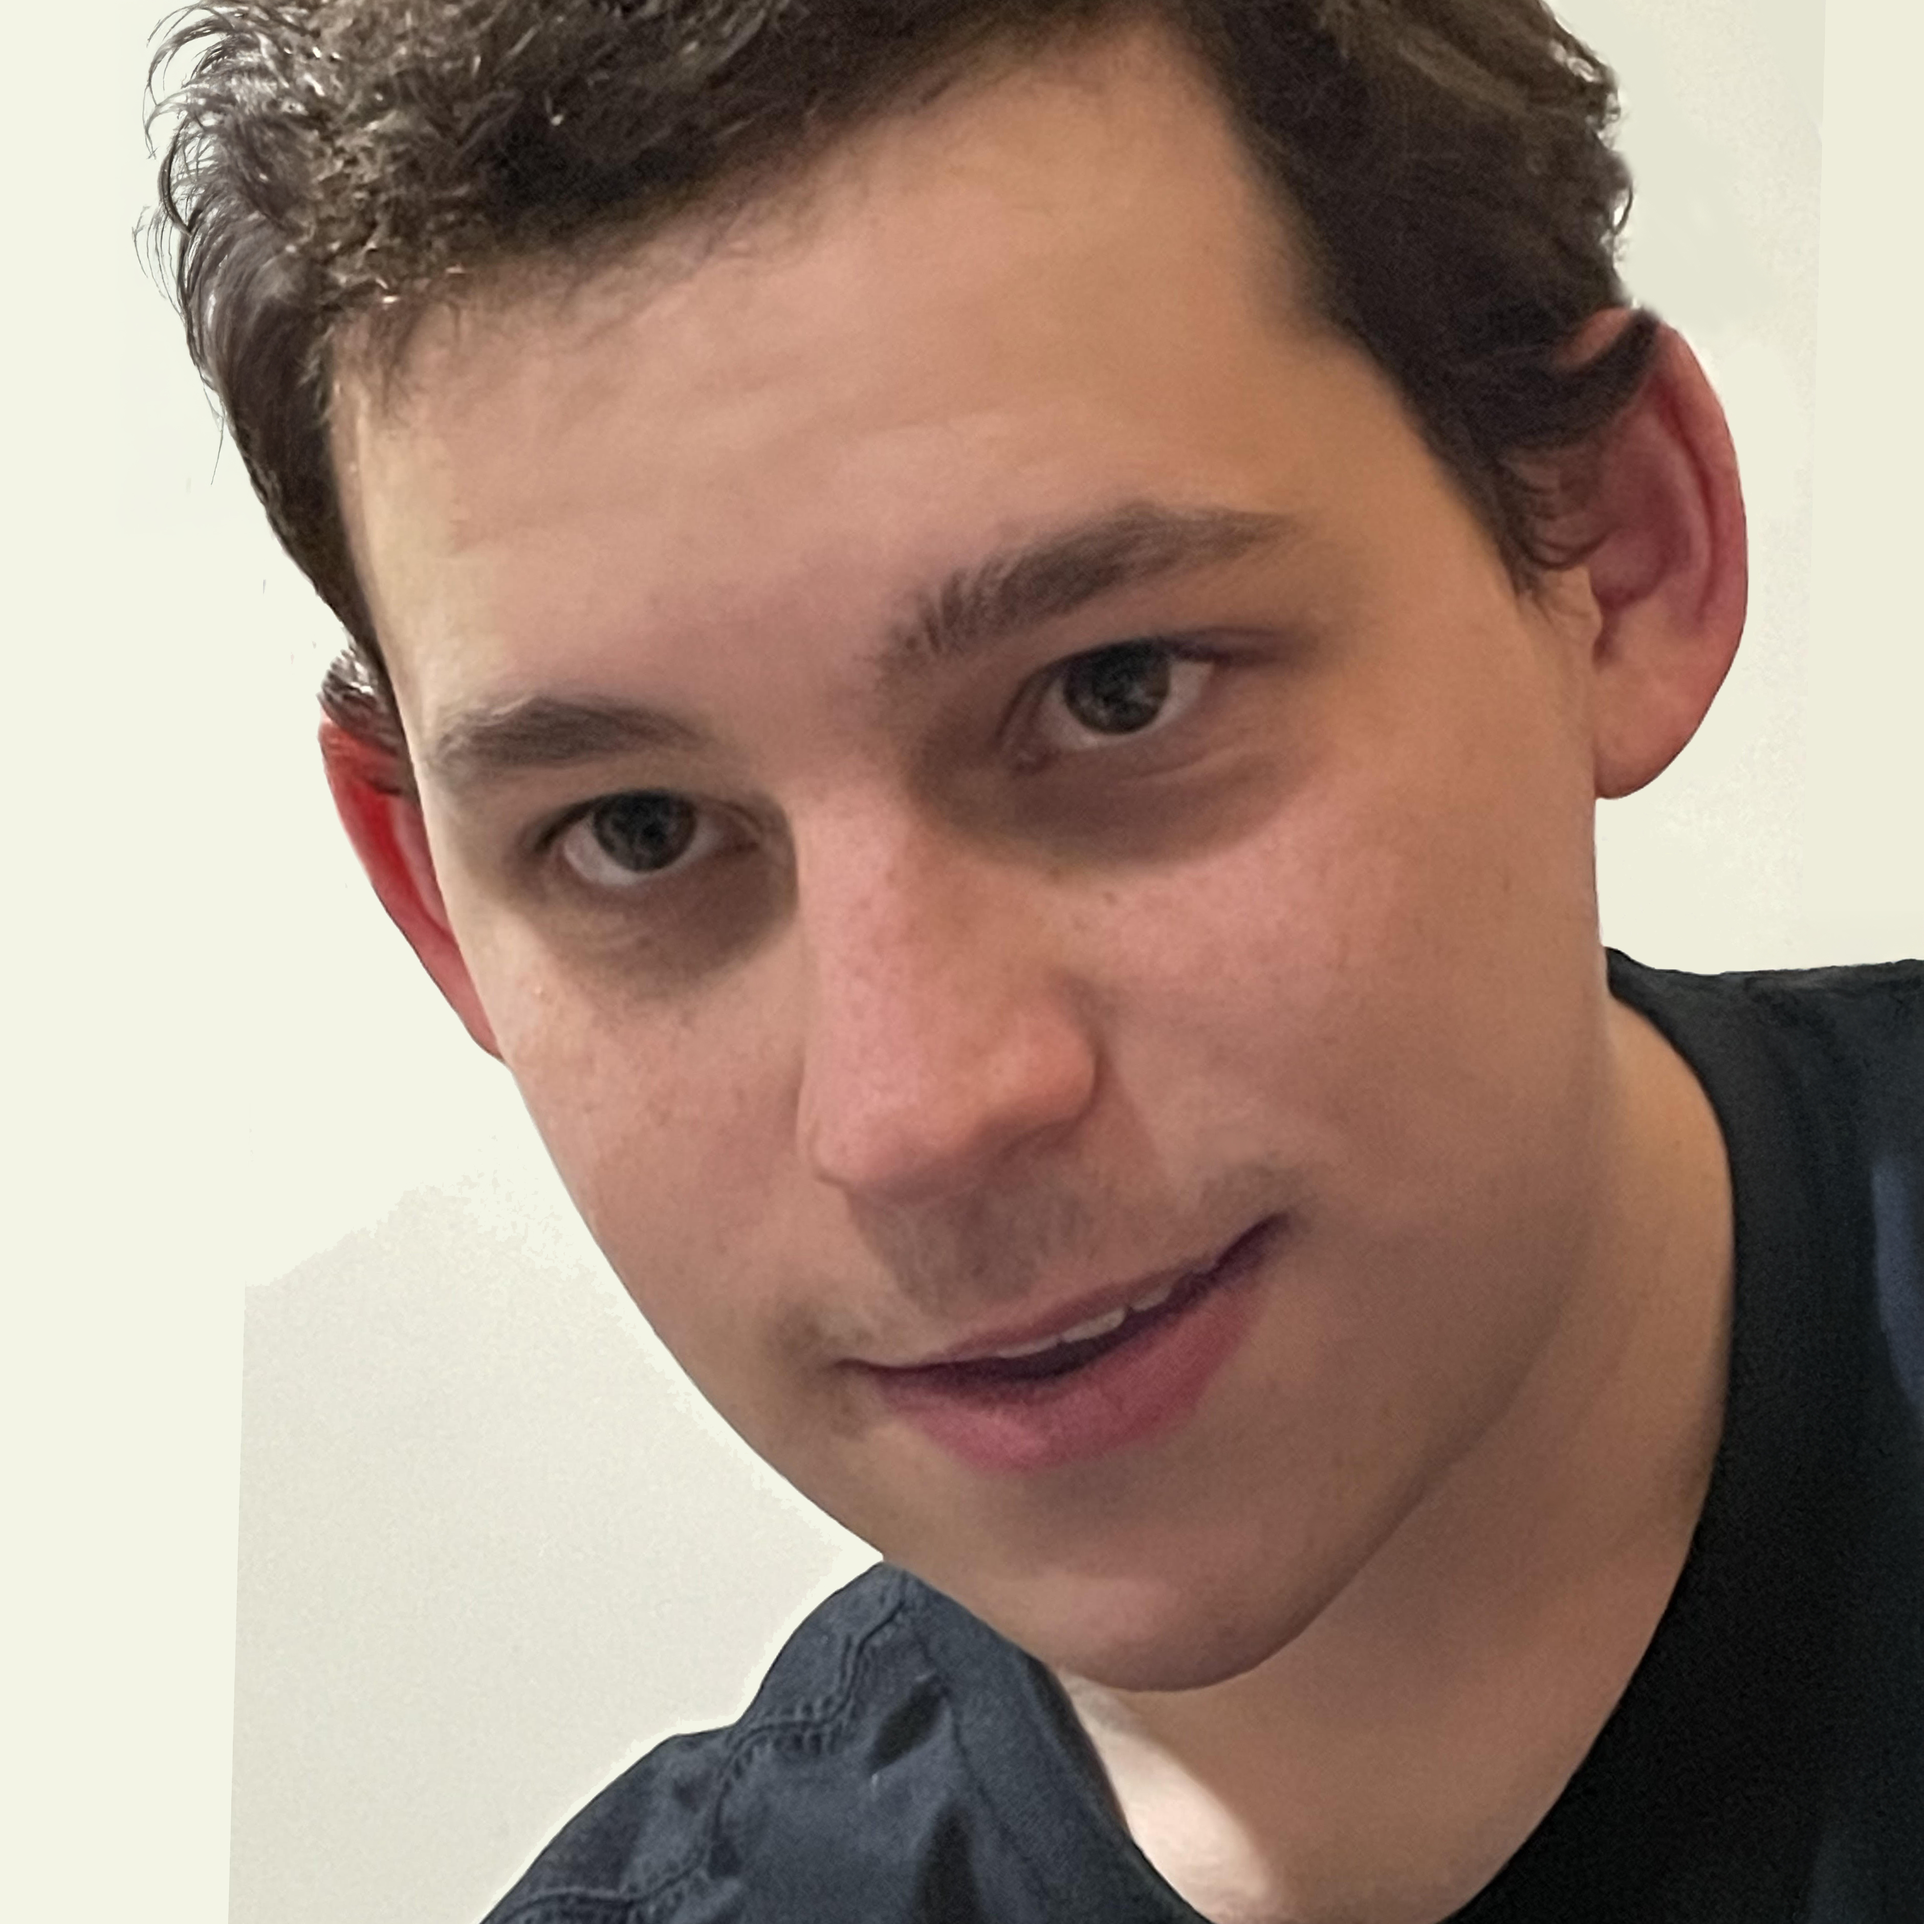
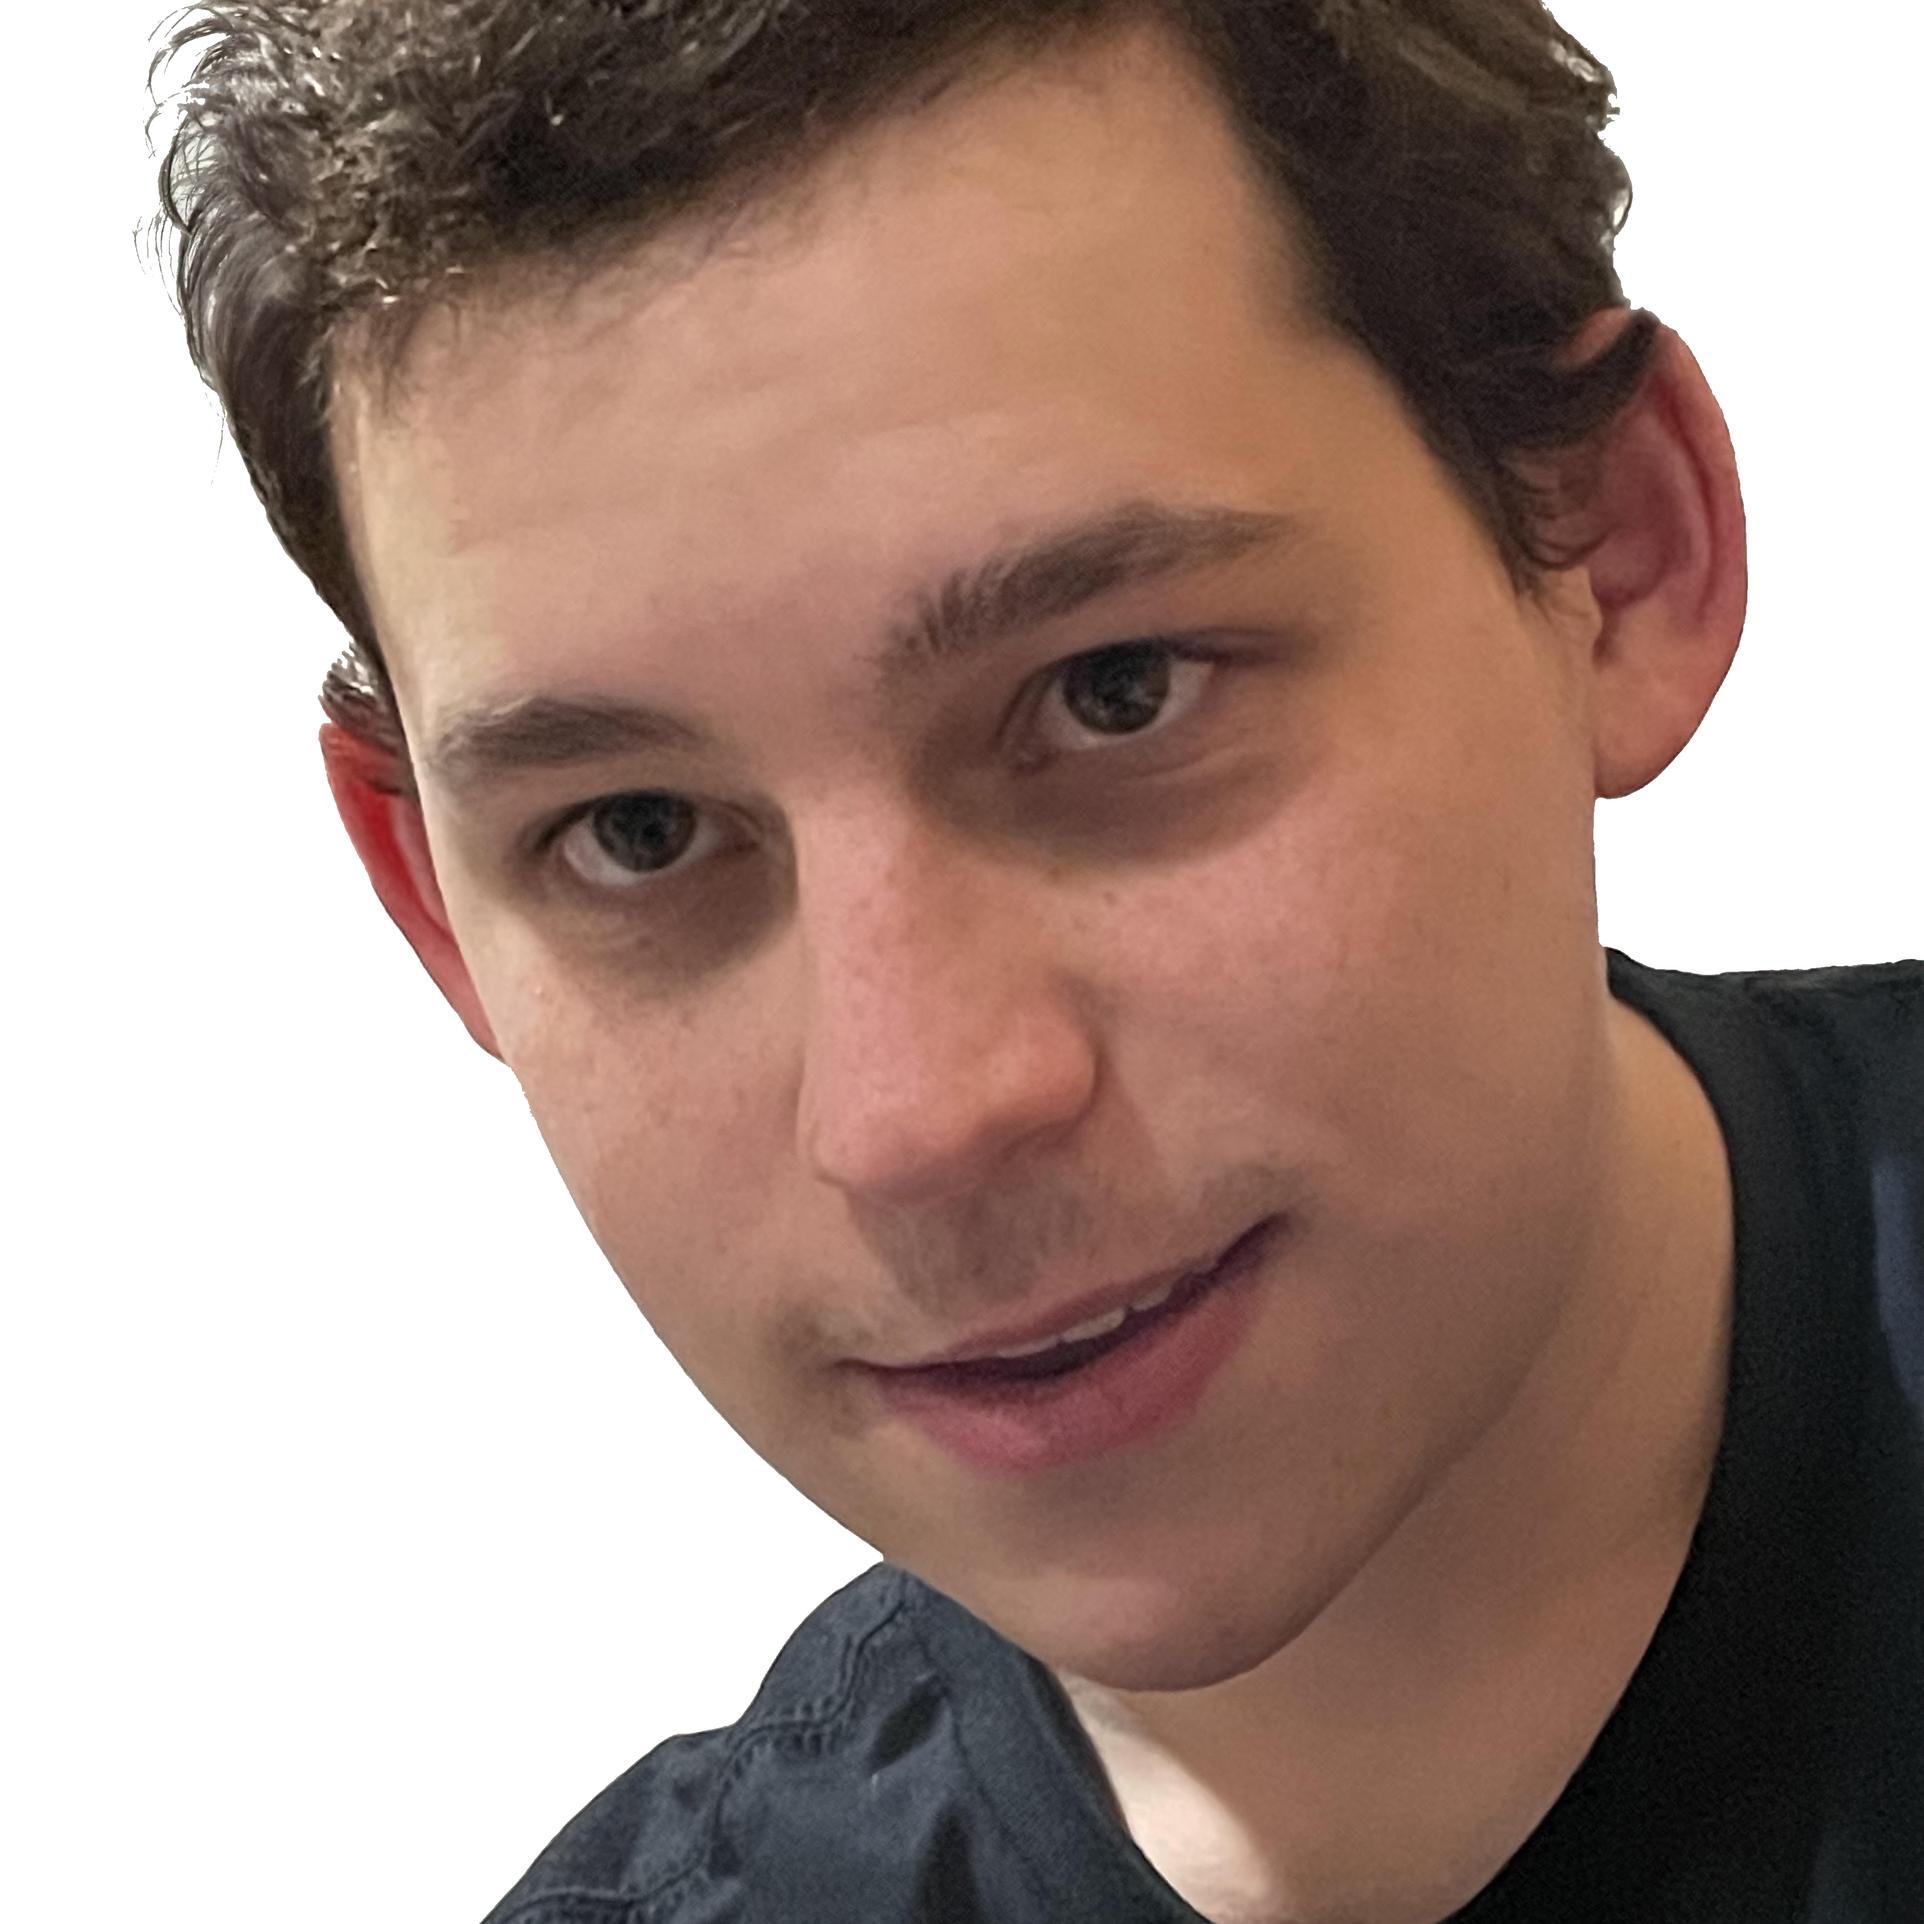
Update SEVT Images

diff --git a/SEVT.html b/SEVT.html
@@ -139,15 +139,15 @@
 								</div>
 							</article>
 							<article class="col-6 col-12-xsmall work-item">
-								<a href="images/SEVT/Test mount.jpg" class="image fit thumb"><img src="images/SEVT/Test mount.jpg" alt=""></a>
+								<a href="images/SEVT/Driver's Side.JPG" class="image fit thumb"><img src="images/SEVT/Driver's Side.JPG" alt=""></a>
 								<div class = "caption">
-									<h3>One of the arm mounting plates, after waterjetting but before post-processing</h3>
+									<h3>The final driver's side arm, with mounted wheel and brake rotor</h3>
 								</div>
 							</article>
 							<article class="col-6 col-12-xsmall work-item">
-								<a href="images/SEVT/Mount test fit.JPG" class="image fit thumb"><img src="images/SEVT/Mount test fit.JPG" alt=""></a>
+								<a href="images/SEVT/BS_FULL.JPG" class="image fit thumb"><img src="images/SEVT/BS_FULL.JPG" alt=""></a>
 								<div class = "caption">
-									<h3>A test fit of the arm mounting plates for one side of the car</h3>
+									<h3>A view of the full rear suspension system looking forwards from the rear of the car</h3>
 								</div>
 							</article>
 						</div>

diff --git a/index.html b/index.html
@@ -73,7 +73,7 @@
 								</ul> -->
 							</article>
 							<article class="col-6 col-12-xsmall work-item">
-								<a href="SEVT.html" class="image fit thumb"><img src="images/SEVT/SEVT LArm 12-13-25.png" alt="" /></a>
+								<a href="SEVT.html" class="image fit thumb"><img src="images/SEVT/Driver's Side.JPG" alt="" /></a>
 								<div class = "caption">
 									<h3>Solstice Electric Vehicle Rear Suspension</h3>
 								</div>
